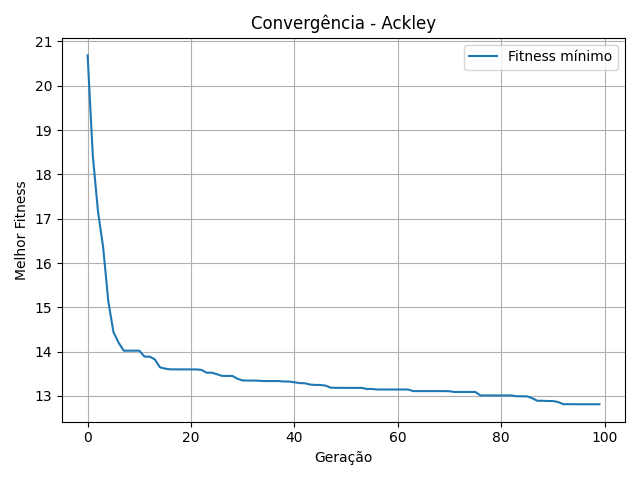
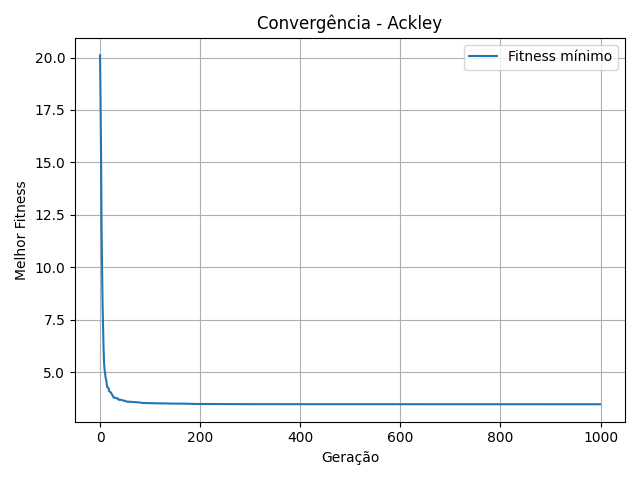
feat: add plot graph images

diff --git a/genetic_algorithm.py b/genetic_algorithm.py
@@ -109,8 +109,8 @@ def genetic_algorithm(objective_func, n_dims, pop_size, generations, bounds, mut
 
 def run_benchmark_ga():
     n_dims = 30
-    pop_size = 30
-    generations = 100
+    pop_size = 500
+    generations = 1000
 
     benchmarks = [
         ("Ackley", ackley_function, np.array([[-30, 30]] * n_dims)),
